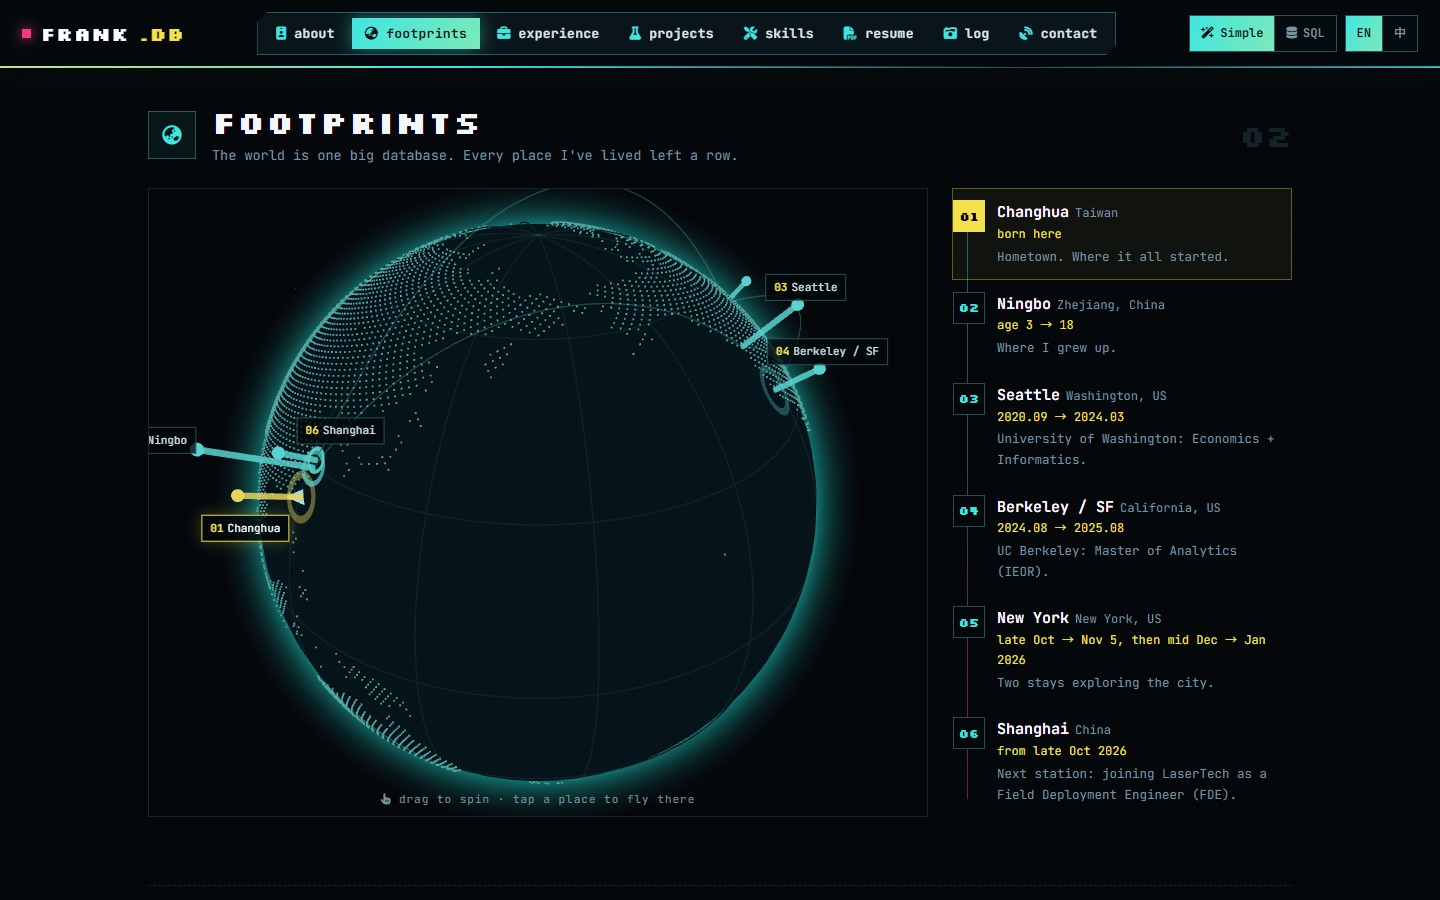
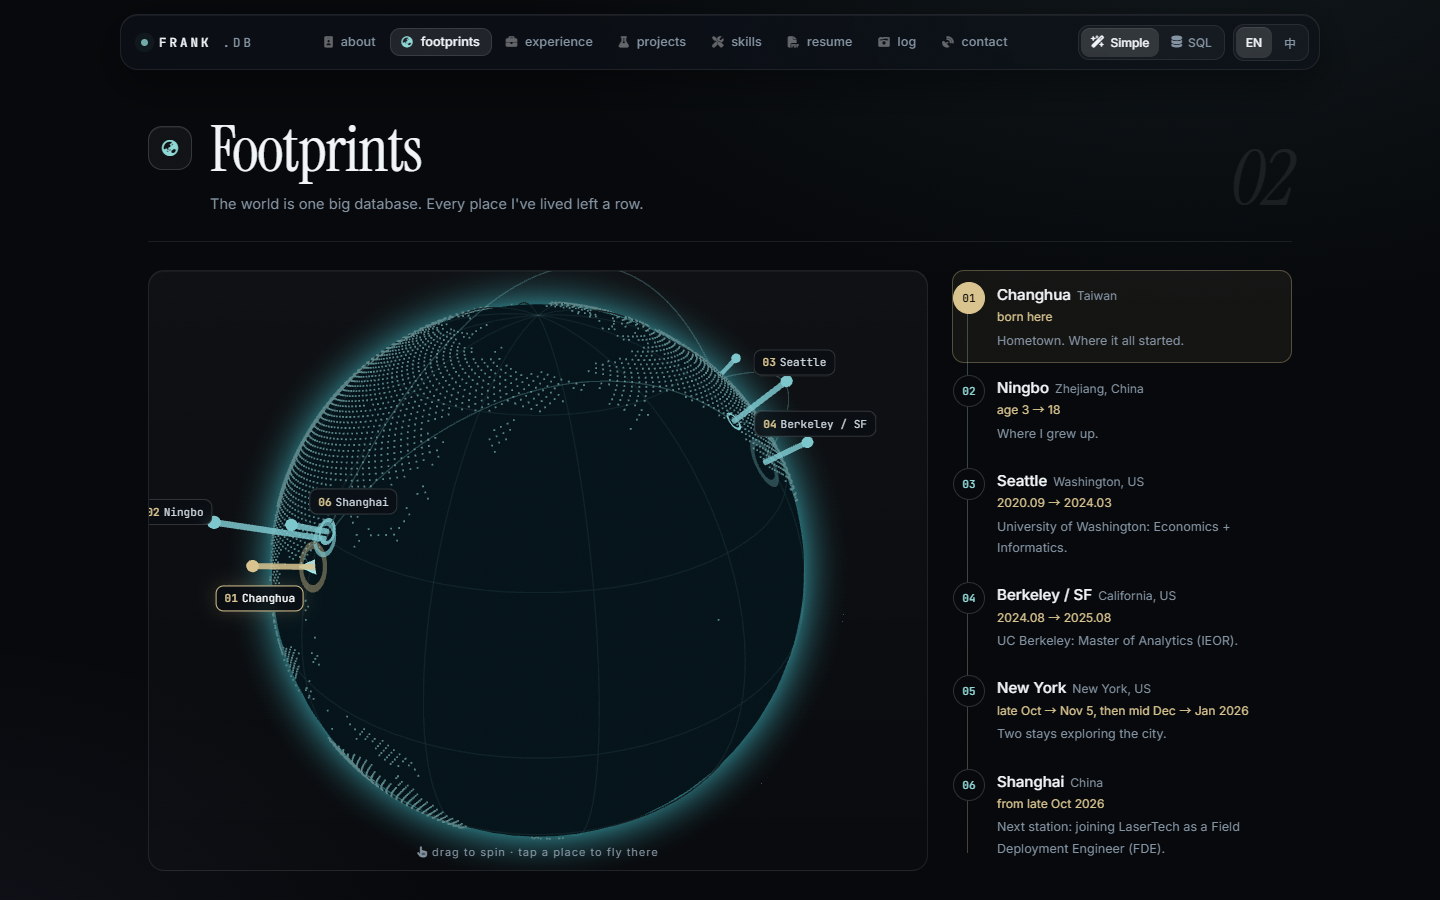
Update README and screenshots for the refined look and resume viewer

diff --git a/README.md b/README.md
@@ -12,13 +12,13 @@ Tzuyang (Frank) Lin · 林子洋 · data analyst & field deployment engineer
 ![Bilingual](https://img.shields.io/badge/languages-EN%20%2F%20%E4%B8%AD%E6%96%87-ff3d8b?style=flat-square&labelColor=05080b)
 ![No build step](https://img.shields.io/badge/build-none-7be9b8?style=flat-square&labelColor=05080b)
 
-<img src="docs/screenshots/hero.png" alt="FRANK.DB home page: a rainy neon city with street signs for every place I have lived" width="900">
+<img src="docs/screenshots/hero.png" alt="FRANK.DB home page: a quiet dark portfolio with a 3D city skyline behind the name" width="900">
 
 </div>
 
 ## What is this?
 
-Everything I've done is a row in some table, so the site is built like one: a rainy neon city whose street signs are the places I've lived, a SQL console, and a globe that flies a paper plane through my life so far.
+Everything I've done is a row in some table, so the site is built like one: a 3D dusk-lit city whose signs are the places I've lived, a SQL console, and a globe that flies a paper plane through my life so far. The look is deliberately quiet and precise: graphite surfaces, hairline borders, serif display type and one aqua accent.
 
 | | |
 |---|---|
@@ -27,6 +27,7 @@ Everything I've done is a row in some table, so the site is built like one: a ra
 | ![Projects](docs/screenshots/projects-cards.png) | ![Heatmap](docs/screenshots/projects-heatmap.png) |
 | **Projects as cards**, filterable by topic. | **Heatmap**: all my public GitHub contributions in one strip, with a diamond where each project began. |
 | ![SQL view](docs/screenshots/sql-view.png) | ![Chinese](docs/screenshots/chinese.png) |
+| ![Resume](docs/screenshots/resume.png) | ![Skills](docs/screenshots/skills.png) |
 | **SQL view**: the same content as queries and tables. | **中文**: the whole site in Chinese, one click. |
 
 ## Features
@@ -85,7 +86,7 @@ powershell -ExecutionPolicy Bypass -File update-github.ps1
 
 ## Privacy note
 
-My resume PDFs and diploma scans are deliberately **not** in this repository: the live site shows "available on request" instead (`showPrivateDocs: false` in [`js/config.js`](js/config.js), and the files are git-ignored).
+The resume viewer uses redacted PDFs (no phone number) in `assets/resume-public/`, built from `tools/resume/*.html` with `tools/build-resume.ps1` (`showResume: true` in [`js/config.js`](js/config.js)). The original resumes and diploma scans are deliberately **not** in this repository: they are git-ignored and the live site shows "available on request" for the diplomas (`showPrivateDocs: false`).
 
 ## License
 
